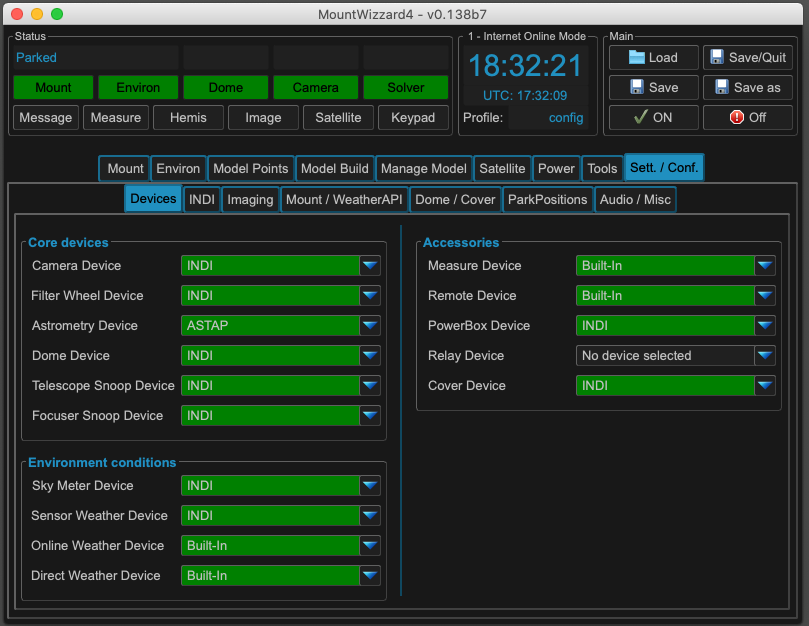
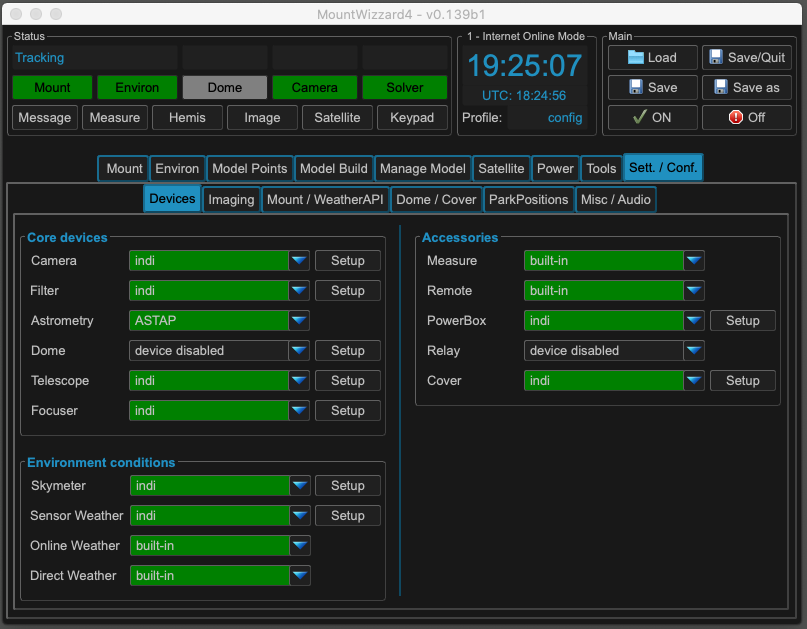
changing doc

Changed region(s): [[0.0, 0.0, 1.0, 1.0]]

diff --git a/docs/source/explain_setting.rst b/docs/source/explain_setting.rst
@@ -21,39 +21,37 @@ The following different device types are present:
 +--------------------+-----------------------------------------------------+
 | type of device     | remarks                                             |
 +--------------------+-----------------------------------------------------+
-| No device selected | disabling device usage                              |
+| device disabled    | disabling device usage                              |
 +--------------------+-----------------------------------------------------+
 | Built-In           | functionality is built in MW4                       |
 +--------------------+-----------------------------------------------------+
-| INDI               | device is connected to an INDI server               |
+| indi               | device is connected to an INDI server               |
++--------------------+-----------------------------------------------------+
+| alpaca             | device is connected to an ASCOM ALPACA server       |
 +--------------------+-----------------------------------------------------+
 | Astrometry         | shows local programs like ASTAP, astrometry.net     |
 +--------------------+-----------------------------------------------------+
 
 A snoop device is only read for information, but not needed for active functions.
 
+Some of the devices have a setup button. When selecting, a popup window will show up. You
+have to make selections for an INDI server:
 
-INDI Tab
---------
-All indi devices could be configured on this Tab. MW4 support multiple servers and builds on
-connection for each device to the indi server. As mostly all devices are connected to a
-single server, you could share the setting for IP address, port and showing message from
-devices by checking the share box (1)
-
-.. image:: _static/explain_sett_INDI_tab.png
+.. image:: _static/explain_sett_devices_popup_indi.png
     :align: center
 
-The devices available are listed in drop down lists. Just select the one you would like to use.
+For the INDI configuration you could search for devices of the given type and select them
+via drop down menu. In addition you could copy the settings for host address, host port,
+showing indi messages in main message window to all INDI devices.
 
-Some devices have an additional "Search" button (2). For these devices the list is generated by
-receiving all data from the indi server directly. If a server is connected, you could search
-for available devices of that type on the server. MW4 will populate the drop down list for
-you while showing a modal message box while searching. You should allow a search time of 3-4
-seconds before stopping search by closing the message box. After that you could select the
-device from the drop down list.
+MW4 supports ASCOM ALPACA as well:
 
-MW4 will save all devices for you. A search or selection is only necessary whenever you
-change your setup.
+.. image:: _static/explain_sett_devices_popup_alpaca.png
+    :align: center
+
+For ALPACA you setup the parameter accordingly. Like in INDI you could copy the protocol,
+host address, host port, user and password to all other alpaca device.
+
 
 Imaging Tab
 -----------
